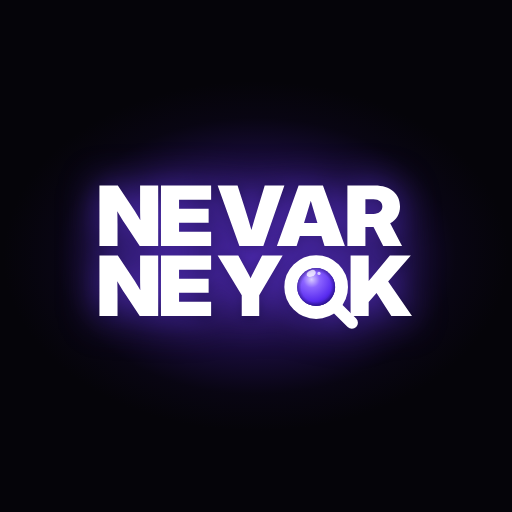
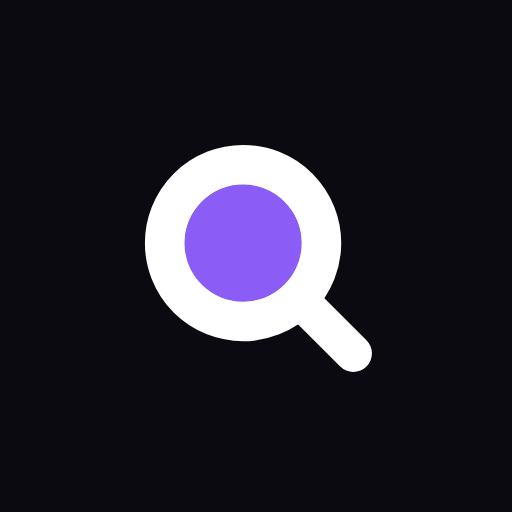
Logonun son hali: düz mor cam, düz koyu zemin, uygulama simgesi yalnızca büyüteç; ışıma ve haleler kaldırıldı
Claude-Session: https://claude.ai/code/session_01DgUC4EpyTiTxeH42sTdKUw

Changed region(s): [[0.125, 0.2812, 0.8438, 0.75]]

diff --git a/index.html b/index.html
@@ -8,7 +8,7 @@
 <meta property="og:image" content="https://nevarneyok.net.tr/icons/og.png">
 <meta property="og:url" content="https://nevarneyok.net.tr/">
 <meta name="description" content="Konser, tiyatro, sinema, stand-up ve çocuk etkinlikleri; bilet siteleri yan yana. Şehrini seç, ne var ne yok gör.">
-<meta name="theme-color" content="#050409">
+<meta name="theme-color" content="#0a0a10">
 <link rel="manifest" href="manifest.webmanifest">
 <link rel="icon" type="image/png" sizes="192x192" href="icons/icon-192.png">
 <link rel="apple-touch-icon" href="icons/apple-touch-icon.png">
@@ -18,8 +18,8 @@
 <link rel="stylesheet" href="https://fonts.googleapis.com/css2?family=Poppins:wght@300;800&text=onesidby&display=swap">
 <style>
 /* ============ NE VAR NE YOK · YENİ TASARIM ============
-   Siyah zemin + mor ışıma (yeni logo, 15.11.2026); renk afişlerden gelir. Düğmeler beyaz, vurgu mor (--pur). */
-:root{--bg:#050409;--s1:#100c1c;--s2:#18132b;--s3:#231c3d;--line:rgba(255,255,255,.09);--tx:#f6f4fb;--t2:#b0a9c8;--t3:#7a7294;--acc:#ffffff;--on-acc:#050409;--pur:#8b63ff;--pur2:#5a2df0;
+   Düz koyu zemin #0a0a10, vurgu düz mor #8b5cf6 (logonun son hali, 15.11.2026); renk afişlerden gelir. Düğmeler beyaz, vurgu mor (--pur). */
+:root{--bg:#0a0a10;--s1:#13131c;--s2:#1b1b27;--s3:#252534;--line:rgba(255,255,255,.09);--tx:#f6f4fb;--t2:#b0a9c8;--t3:#7a7294;--acc:#ffffff;--on-acc:#0a0a10;--pur:#8b5cf6;--pur2:#7c3aed;
   --f:"Inter Tight",system-ui,-apple-system,"Segoe UI",sans-serif;--fd:"Archivo","Inter Tight",system-ui,sans-serif;--fl:"Bricolage Grotesque","Inter Tight",system-ui,sans-serif;--pad:20px;--r:14px}
 @media (min-width:900px){:root{--pad:48px}}
 *{box-sizing:border-box;margin:0;padding:0}
@@ -31,13 +31,11 @@ img{display:block;max-width:100%}
 .ic{width:20px;height:20px;flex:none}
 
 
-/* Logodaki gibi mor ışıma: sabit, ayrı katmanda (kaydırmada yeniden çizilmez) */
-body::before{content:"";position:fixed;inset:0;z-index:-1;pointer-events:none;background:radial-gradient(75% 42% at 30% 4%,rgba(70,34,160,.62),rgba(38,18,92,.3) 50%,transparent 78%),radial-gradient(60% 38% at 90% 100%,rgba(48,24,120,.28),transparent 72%);transform:translateZ(0)}
 /* ---- Logo (brand/logo.js): beyaz yazı, beyaz büyüteç, mor cam ---- */
-.wm{display:inline-flex;font-size:20px;--u:.0073em;color:#fff;filter:drop-shadow(0 0 .35em rgba(105,60,240,.65))}
+.wm{display:inline-flex;font-size:20px;--u:.0073em;color:#fff}
 
 /* ---- Üst çubuk ---- */
-.top{position:sticky;top:0;z-index:50;height:62px;display:flex;align-items:center;gap:12px;padding:0 var(--pad);background:rgba(5,4,9,.82);-webkit-backdrop-filter:saturate(1.4) blur(14px);backdrop-filter:saturate(1.4) blur(14px);border-bottom:1px solid transparent;transition:border-color .2s}
+.top{position:sticky;top:0;z-index:50;height:62px;display:flex;align-items:center;gap:12px;padding:0 var(--pad);background:rgba(10,10,16,.82);-webkit-backdrop-filter:saturate(1.4) blur(14px);backdrop-filter:saturate(1.4) blur(14px);border-bottom:1px solid transparent;transition:border-color .2s}
 .top.sc{border-bottom-color:var(--line)}
 .top[hidden]{display:none}
 .top .sp{flex:1}
@@ -97,12 +95,12 @@ html.app .dl-top,html.app [data-app]{display:none!important}
 .dstrip small{font:700 11px var(--f);letter-spacing:.04em}
 .dstrip b{font:800 19px/1.1 var(--f);color:var(--tx)}
 .dstrip .wk b{font-size:13px;line-height:1.5}
-.dstrip button.on{background:#fff;border-color:#fff;color:#050409}.dstrip button.on b{color:#050409}
+.dstrip button.on{background:#fff;border-color:#fff;color:#0a0a10}.dstrip button.on b{color:#0a0a10}
 .pills{display:flex;gap:8px;overflow-x:auto;scrollbar-width:none;padding:10px var(--pad) 0;max-width:1440px;margin:0 auto}
 .pills::-webkit-scrollbar{display:none}
 .pl{flex:none;display:flex;align-items:center;gap:6px;height:38px;padding:0 12px 0 15px;border-radius:999px;border:1px solid rgba(255,255,255,.16);font-weight:700;font-size:14px;max-width:220px;white-space:nowrap;overflow:hidden;text-overflow:ellipsis}
 .pl svg{width:14px;height:14px;flex:none;opacity:.6}
-.pl.on{background:#fff;color:#050409;border-color:#fff}
+.pl.on{background:#fff;color:#0a0a10;border-color:#fff}
 .pl.clr{padding:0 15px;color:var(--t2);border-style:dashed}
 .mn .pn{max-height:72svh}
 .ml{padding:6px 12px 14px}
@@ -136,7 +134,7 @@ html.app .dl-top,html.app [data-app]{display:none!important}
 .sps{position:relative;flex:0 0 100%;scroll-snap-align:center;scroll-snap-stop:always;padding:0 var(--pad);display:block}
 .sps::before{content:"";position:absolute;inset:0 var(--pad);border-radius:24px;background:var(--s1);z-index:-3}
 .sps .bg{position:absolute;inset:0 var(--pad);width:calc(100% - 2 * var(--pad));height:100%;object-fit:cover;border-radius:24px;filter:blur(30px) saturate(1.25) brightness(.5);transform:scale(1.02);z-index:-2;opacity:.9}
-.sps::after{content:"";position:absolute;inset:0 var(--pad);border-radius:24px;z-index:-1;background:linear-gradient(180deg,rgba(5,4,9,.15),rgba(5,4,9,0) 30%,rgba(5,4,9,.88));box-shadow:inset 0 0 0 1px rgba(255,255,255,.06)}
+.sps::after{content:"";position:absolute;inset:0 var(--pad);border-radius:24px;z-index:-1;background:linear-gradient(180deg,rgba(10,10,16,.15),rgba(10,10,16,0) 30%,rgba(10,10,16,.88));box-shadow:inset 0 0 0 1px rgba(255,255,255,.06)}
 .sps{min-height:560px}
 .sps .po{width:min(60vw,290px);margin:46px auto 0;aspect-ratio:830/1200;border-radius:14px;overflow:hidden;box-shadow:0 30px 60px rgba(0,0,0,.55)}
 .sps .po .ph{border-radius:14px}
@@ -144,7 +142,7 @@ html.app .dl-top,html.app [data-app]{display:none!important}
 .sps .tg{display:inline-block;padding:5px 10px;border-radius:999px;background:rgba(255,255,255,.12);font:700 11px var(--f);letter-spacing:.16em;text-transform:uppercase}
 .sps h2{margin-top:12px;font:900 clamp(30px,7.6vw,64px)/.92 var(--fd);font-stretch:78%;letter-spacing:-.02em;text-transform:uppercase;display:-webkit-box;-webkit-line-clamp:3;-webkit-box-orient:vertical;overflow:hidden}
 .sps .m{margin-top:10px;color:rgba(255,255,255,.78);font-weight:600}
-.sps .go{display:inline-flex;align-items:center;gap:8px;margin-top:16px;padding:12px 20px;border-radius:999px;background:#fff;color:#050409;font:800 14px var(--f)}
+.sps .go{display:inline-flex;align-items:center;gap:8px;margin-top:16px;padding:12px 20px;border-radius:999px;background:#fff;color:#0a0a10;font:800 14px var(--f)}
 .stp .nv{position:absolute;top:40px;bottom:120px;width:22%;z-index:2;background:none;border:0;cursor:pointer}
 .stp .pv{left:0}.stp .nx{right:0}
 @media (min-width:900px){.sps{min-height:480px}.sps .po{width:270px;margin:46px 0 32px 64px;float:left}.sps .tx{padding:0 64px 0 380px;text-align:left;position:absolute;left:0;right:0;top:50%;transform:translateY(-35%)}.stp .nv{width:12%}}
@@ -187,8 +185,8 @@ html.app .dl-top,html.app [data-app]{display:none!important}
 .ph.no .tp{display:flex}
 .ph .tp b{font:900 24px/.95 var(--fd);font-stretch:80%;text-transform:uppercase;letter-spacing:-.02em;display:-webkit-box;-webkit-line-clamp:5;-webkit-box-orient:vertical;overflow:hidden}
 .ph .tp small{font:700 11px var(--f);letter-spacing:.16em;text-transform:uppercase;color:var(--t3)}
-.ph .bd{position:absolute;left:8px;top:8px;z-index:2;padding:4px 8px;border-radius:7px;background:rgba(5,4,9,.78);font:700 11px var(--f);letter-spacing:.04em}
-.ph .bd.x{background:#fff;color:#050409}
+.ph .bd{position:absolute;left:8px;top:8px;z-index:2;padding:4px 8px;border-radius:7px;background:rgba(10,10,16,.78);font:700 11px var(--f);letter-spacing:.04em}
+.ph .bd.x{background:#fff;color:#0a0a10}
 .cd .t{margin-top:10px;font:800 15px/1.2 var(--f);letter-spacing:-.01em;display:-webkit-box;-webkit-line-clamp:2;-webkit-box-orient:vertical;overflow:hidden}
 .cd .m{margin-top:4px;color:var(--t2);font-size:13px;font-weight:500;white-space:nowrap;overflow:hidden;text-overflow:ellipsis}
 .cd .m2{color:var(--t3);font-size:13px;white-space:nowrap;overflow:hidden;text-overflow:ellipsis}
@@ -234,7 +232,7 @@ html.app .dl-top,html.app [data-app]{display:none!important}
 .pn .ft .ok{flex:1;background:var(--acc);color:var(--on-acc)}
 
 /* ---- Keşfet üst bölüm + düzenli filtre ekranı ---- */
-.fbtn.on{background:#fff;color:#050409;border-color:#fff}.fbtn.on .n{background:#050409;color:#fff}
+.fbtn.on{background:#fff;color:#0a0a10;border-color:#fff}.fbtn.on .n{background:#0a0a10;color:#fff}
 .frow{display:flex;align-items:center;gap:10px;padding:10px var(--pad) 0;max-width:1440px;margin:0 auto}
 .frow .act{flex:1;flex-wrap:nowrap;overflow-x:auto;scrollbar-width:none;padding:0;margin:0}
 .frow .act::-webkit-scrollbar{display:none}.frow .act button{flex:none}
@@ -268,7 +266,7 @@ html.app .dl-top,html.app [data-app]{display:none!important}
 .dt{position:relative}
 .dt .bk{position:absolute;inset:0 0 auto;height:min(78vh,760px);overflow:hidden;z-index:-1}
 .dt .bk img{width:100%;height:100%;object-fit:cover;filter:blur(40px) saturate(1.2) brightness(.42);transform:scale(1.2)}
-.dt .bk::after{content:"";position:absolute;inset:0;background:linear-gradient(180deg,rgba(5,4,9,.2),var(--bg) 96%)}
+.dt .bk::after{content:"";position:absolute;inset:0;background:linear-gradient(180deg,rgba(10,10,16,.2),var(--bg) 96%)}
 .dt .in{max-width:1180px;margin:0 auto;padding:18px var(--pad) 0}
 .back{display:inline-flex;align-items:center;gap:6px;height:38px;padding:0 14px 0 10px;border-radius:999px;background:rgba(255,255,255,.1);font-weight:700}
 .dg{display:grid;gap:28px;margin-top:20px}
@@ -301,14 +299,14 @@ html.app .dl-top,html.app [data-app]{display:none!important}
 .mapc{border-radius:18px;overflow:hidden;background:var(--s1);border:1px solid var(--line)}
 .map{height:240px;background:#0d0f13}
 .map .dk{filter:invert(1) hue-rotate(180deg) brightness(.82) contrast(.92) saturate(.35)}
-.map .leaflet-control-attribution{background:rgba(5,4,9,.7)!important;color:#888!important;font-size:9px}
+.map .leaflet-control-attribution{background:rgba(10,10,16,.7)!important;color:#888!important;font-size:9px}
 .map .leaflet-control-attribution a{color:#aaa!important}
 .mapc .ad{display:flex;align-items:center;gap:12px;padding:14px 16px}
 .mapc .ad svg{width:22px;height:22px;color:#fff;flex:none}
 .mapc .ad b{display:block}.mapc .ad small{color:var(--t2)}
 .mapc .bt{display:flex;gap:8px;padding:0 16px 16px}
 .mapc .bt a{flex:1;display:flex;align-items:center;justify-content:center;gap:8px;height:44px;border-radius:12px;background:var(--s2);font-weight:700;font-size:14px}
-.mapc .bt a.p{background:#fff;color:#050409}
+.mapc .bt a.p{background:#fff;color:#0a0a10}
 .pin{width:30px;height:30px;border-radius:50% 50% 50% 0;background:#fff;transform:rotate(-45deg);box-shadow:0 6px 16px rgba(0,0,0,.6),0 0 0 5px rgba(255,255,255,.18)}
 .shr{display:flex;gap:8px;margin-top:12px}
 .shr button{display:flex;align-items:center;gap:8px;height:40px;padding:0 14px;border-radius:999px;background:var(--s2);font-weight:700;font-size:14px}
@@ -350,19 +348,19 @@ html.app .dl-top,html.app [data-app]{display:none!important}
 .fbell{position:relative}.fbell b{position:absolute;top:-3px;right:-3px;display:none;min-width:18px;height:18px;padding:0 5px;border-radius:9px;background:var(--pur);color:#fff;font:800 11px/18px var(--f);text-align:center}.fbell.has b{display:block}
 .shr .flw{background:var(--s2)}.shr .flw.on{background:var(--pur);color:#fff}.shr .flw svg{width:18px;height:18px}
 .flh{margin-top:8px;color:var(--t3);font-size:13px;max-width:520px}
-.nbox{display:flex;align-items:center;gap:12px;padding:14px 16px;border-radius:16px;background:linear-gradient(120deg,rgba(139,99,255,.22),rgba(90,45,240,.08));border:1px solid rgba(139,99,255,.35);max-width:620px}
-.nbox>svg{width:24px;height:24px;flex:none;color:#c4b0ff}.nbox span{flex:1;min-width:0}.nbox b{display:block;font-weight:800}.nbox small{display:block;margin-top:2px;color:var(--t2);font-size:13px;line-height:1.35}
+.nbox{display:flex;align-items:center;gap:12px;padding:14px 16px;border-radius:16px;background:linear-gradient(120deg,rgba(139,92,246,.22),rgba(90,45,240,.08));border:1px solid rgba(139,92,246,.35);max-width:620px}
+.nbox>svg{width:24px;height:24px;flex:none;color:#b9a3fb}.nbox span{flex:1;min-width:0}.nbox b{display:block;font-weight:800}.nbox small{display:block;margin-top:2px;color:var(--t2);font-size:13px;line-height:1.35}
 .nbox .nb-go{flex:none;height:38px;padding:0 16px;border-radius:999px;background:#fff;color:var(--on-acc);font-weight:800;font-size:14px}
 .nbox .nb-x{flex:none;width:30px;height:30px;border-radius:50%;color:var(--t3)}
 .nbox.ok{background:var(--s1);border-color:var(--line)}
 .nask{margin-top:18px}
-.nsh{text-align:center;padding-top:8px}.nsh>svg{width:42px;height:42px;color:#c4b0ff}.nsh h3{margin-top:10px;font:900 26px/1 var(--fd);font-stretch:80%;text-transform:uppercase}.nsh p{margin-top:10px;color:var(--t2)}
+.nsh{text-align:center;padding-top:8px}.nsh>svg{width:42px;height:42px;color:#b9a3fb}.nsh h3{margin-top:10px;font:900 26px/1 var(--fd);font-stretch:80%;text-transform:uppercase}.nsh p{margin-top:10px;color:var(--t2)}
 .tst{position:fixed;left:50%;top:calc(70px + env(safe-area-inset-top));z-index:90;display:flex;flex-direction:column;gap:8px;width:min(440px,calc(100% - 24px));transform:translateX(-50%);pointer-events:none}
-.tt{display:flex;gap:10px;align-items:flex-start;padding:12px 14px;border-radius:14px;background:#1c1633;border:1px solid rgba(139,99,255,.4);box-shadow:0 12px 30px rgba(0,0,0,.45);font-size:14px;pointer-events:auto;opacity:0;transform:translateY(-10px);transition:opacity .25s,transform .25s}
-.tt.on{opacity:1;transform:none}.tt>svg{width:20px;height:20px;flex:none;color:#c4b0ff;margin-top:1px}.tt b{display:block}.tt small{display:block;color:var(--t2);margin-top:2px}.tt a{color:#c4b0ff;font-weight:800;text-decoration:underline;text-underline-offset:3px}.tt span a{display:inline-block;margin-top:6px}
+.tt{display:flex;gap:10px;align-items:flex-start;padding:12px 14px;border-radius:14px;background:#1c1633;border:1px solid rgba(139,92,246,.4);box-shadow:0 12px 30px rgba(0,0,0,.45);font-size:14px;pointer-events:auto;opacity:0;transform:translateY(-10px);transition:opacity .25s,transform .25s}
+.tt.on{opacity:1;transform:none}.tt>svg{width:20px;height:20px;flex:none;color:#b9a3fb;margin-top:1px}.tt b{display:block}.tt small{display:block;color:var(--t2);margin-top:2px}.tt a{color:#b9a3fb;font-weight:800;text-decoration:underline;text-underline-offset:3px}.tt span a{display:inline-block;margin-top:6px}
 .ph.gone{display:grid;place-items:center;aspect-ratio:830/1200;border-radius:12px;background:var(--s1);color:var(--t3);font-weight:700}
 .unf{margin-top:8px;font-size:13px;color:var(--t2);text-decoration:underline}
-.info{max-width:760px;padding-top:18px;color:var(--t2);font-size:16px;line-height:1.6}.info p{margin-top:14px}.info b{color:var(--tx)}.info a{color:#c4b0ff;text-decoration:underline}
+.info{max-width:760px;padding-top:18px;color:var(--t2);font-size:16px;line-height:1.6}.info p{margin-top:14px}.info b{color:var(--tx)}.info a{color:#b9a3fb;text-decoration:underline}
 .cs-h{display:flex;align-items:center;justify-content:space-between}
 /* ---- Afişi olmayan etkinlik: tasarlanmış afiş (kategori renginde, büyük ad, tarih, mekân, küçük imza) ---- */
 .ph .tp{background:radial-gradient(120% 70% at 20% 0%,var(--tc,#3a1f8f),transparent 70%),linear-gradient(170deg,#15102a,#07060d);padding:16px 14px 14px}
@@ -391,7 +389,7 @@ html.app .dl-top,html.app [data-app]{display:none!important}
 try{if(matchMedia("(display-mode: standalone)").matches||navigator.standalone===true)document.documentElement.classList.add("app")}catch(e){}
 window.NVNY_SITE={contact:"contact.openmind.vision@gmail.com",instagram:"https://www.instagram.com/nevarneyok.etkinlik/"};
 </script>
-<script src="brand/logo.js?v=2"></script>
+<script src="brand/logo.js?v=3"></script>
 <script src="takip.js?v=2"></script>
 <script>document.head.insertAdjacentHTML("beforeend","<style>"+NVLOGO.css+"</style>")</script>
 <script src="app.js?v=8e6041a4c8"></script>

diff --git a/brand/logo.js b/brand/logo.js
@@ -2,7 +2,7 @@
    NVLOGO(id) → .logo içine konacak <span class="wm">…</span>. Boyut: .logo{--u} (1 birim = büyük harf yüksekliğinin %1'i).
    Parçalar: 1. satır "NE VAR"; 2. satır "NE Y" + O (halka .sr-ring, cam .sr-glass) + "K". Renk currentColor (beyaz). */
 (function (g) {
-  var P = {"l1": "M-8.9e-16 100H29.9V63.5C29.9 59.5 29.9 51.6 29.5 42.6C34.5 51.3 39.3 59 42.3 63.5L66.6 100H97.1V0H67.2V36.6C67.2 41.4 67.3 49.5 67.6 57.7C63.4 50.5 59 43 56.5 39.3L30.4 0H-8.9e-16ZM101.7 100H184.6V76.4H131.6V61.5H180.5V38.7H131.6V23.6H184.6V0H101.7ZM231.3 100H270.9L305.7 0H273.2L261.4 38.8C257.8 50.5 254.5 62.1 251.2 73.8C247.9 62.1 244.4 50.5 240.7 38.8L228.3 0H195.4ZM293.3 100H325.9L331.2 83.6H366.9L372 100H405.7L369.4 0H329.2ZM338.1 62.1 338.4 61.2C342.2 49.1 345.8 37.4 349.3 25.3C352.8 37.4 356.3 49.1 360 61.2L360.3 62.1ZM409.8 100H439.6V68.7H453L469 100H500.1L480.5 62.7C490.9 56.9 496.8 47.3 496.8 34.9C496.8 13.5 480.8 0 455.2 0H409.8ZM439.6 47.1V22.7H453C462 22.7 467.6 27.6 467.6 34.9C467.6 42.2 462 47.1 453 47.1Z", "w1": 500.09, "ny": "M-8.9e-16 100H29.9V63.5C29.9 59.5 29.9 51.6 29.5 42.6C34.5 51.3 39.3 59 42.3 63.5L66.6 100H97.1V0H67.2V36.6C67.2 41.4 67.3 49.5 67.6 57.7C63.4 50.5 59 43 56.5 39.3L30.4 0H-8.9e-16ZM101.7 100H184.6V76.4H131.6V61.5H180.5V38.7H131.6V23.6H184.6V0H101.7ZM235.2 100H264.1V65.9L302.8 0H268.8L254.4 28.1C252.8 31.2 251.2 34.4 249.8 37.6C248.2 34.4 246.6 31.2 244.9 28.1L229.5 0H195.4L235.2 65.9Z", "wny": 302.79, "k": "M-8.9e-16 100H29.9V76.8L42.9 61.9L67.3 100H101.5L62.1 43L99.5 0H64.9L43.7 25.7C39.1 31.3 34.5 36.8 29.9 42.3V0H-8.9e-16Z", "wk": 101.47, "O": 104.6, "gyo": 3.0999999999999996, "gok": 4.6, "lg": 15.7, "ring": "<circle cx=\"52.3\" cy=\"52.3\" r=\"41.84\" fill=\"none\" stroke=\"currentColor\" stroke-width=\"21.52\"/><path d=\"M84.7 84.7L111.4 111.4\" stroke=\"currentColor\" stroke-width=\"19.9\" stroke-linecap=\"round\"/>", "glass": "<defs><radialGradient id=\"__ID__\" cx=\"38%\" cy=\"30%\" r=\"78%\"><stop offset=\"0\" stop-color=\"#d9ccff\"/><stop offset=\".28\" stop-color=\"#8b63ff\"/><stop offset=\".72\" stop-color=\"#5a2df0\"/><stop offset=\"1\" stop-color=\"#2c0fa6\"/></radialGradient><radialGradient id=\"__ID__s\"><stop offset=\".78\" stop-color=\"#1a0b55\" stop-opacity=\"0\"/><stop offset=\"1\" stop-color=\"#1a0b55\" stop-opacity=\".45\"/></radialGradient></defs><circle cx=\"52.3\" cy=\"52.3\" r=\"31.38\" fill=\"url(#__ID__)\"/><circle cx=\"52.3\" cy=\"52.3\" r=\"31.38\" fill=\"url(#__ID__s)\"/><ellipse cx=\"44.1\" cy=\"29.7\" rx=\"7.8\" ry=\"5.0\" transform=\"rotate(-24 44.1 29.7)\" fill=\"#fff\" fill-opacity=\".72\"/><circle cx=\"57.0\" cy=\"29.7\" r=\"2.7\" fill=\"#fff\" fill-opacity=\".7\"/>"};
+  var P = {"l1": "M-8.9e-16 100H29.9V63.5C29.9 59.5 29.9 51.6 29.5 42.6C34.5 51.3 39.3 59 42.3 63.5L66.6 100H97.1V0H67.2V36.6C67.2 41.4 67.3 49.5 67.6 57.7C63.4 50.5 59 43 56.5 39.3L30.4 0H-8.9e-16ZM101.7 100H184.6V76.4H131.6V61.5H180.5V38.7H131.6V23.6H184.6V0H101.7ZM231.3 100H270.9L305.7 0H273.2L261.4 38.8C257.8 50.5 254.5 62.1 251.2 73.8C247.9 62.1 244.4 50.5 240.7 38.8L228.3 0H195.4ZM293.3 100H325.9L331.2 83.6H366.9L372 100H405.7L369.4 0H329.2ZM338.1 62.1 338.4 61.2C342.2 49.1 345.8 37.4 349.3 25.3C352.8 37.4 356.3 49.1 360 61.2L360.3 62.1ZM409.8 100H439.6V68.7H453L469 100H500.1L480.5 62.7C490.9 56.9 496.8 47.3 496.8 34.9C496.8 13.5 480.8 0 455.2 0H409.8ZM439.6 47.1V22.7H453C462 22.7 467.6 27.6 467.6 34.9C467.6 42.2 462 47.1 453 47.1Z", "w1": 500.09, "ny": "M-8.9e-16 100H29.9V63.5C29.9 59.5 29.9 51.6 29.5 42.6C34.5 51.3 39.3 59 42.3 63.5L66.6 100H97.1V0H67.2V36.6C67.2 41.4 67.3 49.5 67.6 57.7C63.4 50.5 59 43 56.5 39.3L30.4 0H-8.9e-16ZM101.7 100H184.6V76.4H131.6V61.5H180.5V38.7H131.6V23.6H184.6V0H101.7ZM235.2 100H264.1V65.9L302.8 0H268.8L254.4 28.1C252.8 31.2 251.2 34.4 249.8 37.6C248.2 34.4 246.6 31.2 244.9 28.1L229.5 0H195.4L235.2 65.9Z", "wny": 302.79, "k": "M-8.9e-16 100H29.9V76.8L42.9 61.9L67.3 100H101.5L62.1 43L99.5 0H64.9L43.7 25.7C39.1 31.3 34.5 36.8 29.9 42.3V0H-8.9e-16Z", "wk": 101.47, "O": 104.6, "gyo": 3.0999999999999996, "gok": 4.6, "lg": 15.7, "ring": "<circle cx=\"52.3\" cy=\"52.3\" r=\"41.84\" fill=\"none\" stroke=\"currentColor\" stroke-width=\"21.52\"/><path d=\"M84.7 84.7L111.4 111.4\" stroke=\"currentColor\" stroke-width=\"19.9\" stroke-linecap=\"round\"/>", "glass": "<circle cx=\"52.3\" cy=\"52.3\" r=\"31.38\" fill=\"#8b5cf6\"/>"};
   var sv = function (w, d) { return '<svg class="lw" viewBox="0 0 ' + w + ' 100" style="width:calc(var(--u) * ' + w + ')" aria-hidden="true"><path fill="currentColor" d="' + d + '"/></svg>'; };
   function NVLOGO(id) {
     id = id || "nv" + Math.random().toString(36).slice(2, 7);

diff --git a/indir/index.html b/indir/index.html
@@ -8,7 +8,7 @@
 <meta property="og:title" content="Ne Var Ne Yok uygulamasını indir">
 <meta property="og:description" content="Ankara'nın etkinliklerine göz at. Android ve iPhone, ücretsiz.">
 <meta property="og:image" content="https://nevarneyok.net.tr/icons/icon-512.png">
-<meta name="theme-color" content="#050409">
+<meta name="theme-color" content="#0a0a10">
 <link rel="manifest" href="../manifest.webmanifest">
 <link rel="icon" type="image/png" sizes="192x192" href="../icons/icon-192.png">
 <link rel="apple-touch-icon" href="../icons/apple-touch-icon.png">
@@ -19,15 +19,15 @@
 <style>
 :root{--nar:#ff3b6b;--g1:#FF6B8F;--g2:#7C5CFF;--g3:#1D1F4A;--f-disp:"Bricolage Grotesque",system-ui,sans-serif;--f-body:"Onest",system-ui,sans-serif;--f-mono:"JetBrains Mono",ui-monospace,monospace}
 *{box-sizing:border-box}
-html,body{margin:0;min-height:100%;background:radial-gradient(52% 36% at 50% 50%,rgba(70,34,160,.95),rgba(38,18,92,.6) 50%,rgba(16,8,40,.3) 75%,transparent 95%),#050409;color:#fff;font-family:var(--f-body)}
+html,body{margin:0;min-height:100%;background:#0a0a10;color:#fff;font-family:var(--f-body)}
 main{min-height:100svh;display:flex;flex-direction:column;align-items:center;justify-content:center;gap:22px;padding:calc(28px + env(safe-area-inset-top)) 20px calc(28px + env(safe-area-inset-bottom));text-align:center}
-.tile{position:relative;display:grid;place-items:center;width:150px;height:150px;border-radius:34px;overflow:hidden;background:#050409;box-shadow:0 20px 50px rgba(0,0,0,.5),inset 0 0 0 1.5px rgba(255,255,255,.14)}
+.tile{position:relative;display:grid;place-items:center;width:150px;height:150px;border-radius:34px;overflow:hidden;background:#0a0a10;box-shadow:0 20px 50px rgba(0,0,0,.5),inset 0 0 0 1.5px rgba(255,255,255,.14)}
 .wm{display:flex;flex-direction:column;font:800 30px/.9 var(--f-disp);font-variation-settings:"wdth" 85;letter-spacing:-.02em;text-align:left}
 .O{display:inline-block;width:.86em;height:.86em;vertical-align:-.08em;margin:0 .01em}
 .O svg{width:100%;height:100%;overflow:visible}
 h1{margin:6px 0 0;font:800 32px/1.05 var(--f-disp);letter-spacing:-.02em}
 p.s{margin:0;font:600 11px var(--f-mono);letter-spacing:.18em;text-transform:uppercase;opacity:.7}
-.btn{position:relative;display:inline-flex;align-items:center;justify-content:center;gap:10px;width:min(340px,100%);padding:18px 24px;border:0;border-radius:18px;background:linear-gradient(115deg,#8b63ff,#5a2df0);color:#fff;font:800 19px var(--f-disp);cursor:pointer;overflow:hidden;box-shadow:0 14px 34px rgba(90,45,240,.45);-webkit-tap-highlight-color:transparent}
+.btn{position:relative;display:inline-flex;align-items:center;justify-content:center;gap:10px;width:min(340px,100%);padding:18px 24px;border:0;border-radius:18px;background:#8b5cf6;color:#fff;font:800 19px var(--f-disp);cursor:pointer;overflow:hidden;box-shadow:0 14px 34px rgba(139,92,246,.35);-webkit-tap-highlight-color:transparent}
 .btn::after{content:"";position:absolute;top:0;bottom:0;left:0;width:55%;background:linear-gradient(100deg,transparent,rgba(255,255,255,.45) 50%,transparent);transform:translateX(-130%) skewX(-18deg);animation:sw 3.4s cubic-bezier(.45,.05,.25,1) .5s infinite}
 .btn:active{transform:scale(.97)}
 .btn svg{width:22px;height:22px}

diff --git a/brand/make-logo.py b/brand/make-logo.py
@@ -1,4 +1,5 @@
-# Yeni NE VAR NE YOK logosunu (kullanıcının tasarımı, 15.11.2026) vektöre çevirir.
+# NE VAR NE YOK logosunu (kullanıcının tasarımı, son hali 15.11.2026: düz mor cam, düz koyu zemin) vektöre çevirir.
+# Ayrıca brand/mark.svg: yalnızca büyüteç (uygulama simgesi).
 # Yazı: Inter Display Black, %107 genişlik, sıkı aralık; YOK'taki O: beyaz halka + beyaz sap + mor cam küre.
 # Çıktılar: brand/logo.svg (tek parça), brand/logo.js (sitelerde parça parça kullanılan HTML: NVLOGO(id)).
 # Çalıştırma: python3 brand/make-logo.py  (fontTools ve sistemdeki InterDisplay-Black.otf gerekir)
@@ -28,12 +29,8 @@ def rnd(d):  # yolları kısalt
 L1, w1 = word("NE VAR"); NY, wny = word("NE Y"); K, wk = word("K"); L1, NY, K = rnd(L1), rnd(NY), rnd(K)
 O = 104.6; c = O / 2; R = c; ball = R * 0.6; GYO, GOK, LG = GAP - 1.5, GAP, 15.7
 ring = f'<circle cx="{c}" cy="{c}" r="{(R+ball)/2:.2f}" fill="none" stroke="currentColor" stroke-width="{R-ball+.6:.2f}"/><path d="M{c+R*.62:.1f} {c+R*.62:.1f}L{c+R*1.13:.1f} {c+R*1.13:.1f}" stroke="currentColor" stroke-width="{R*.38:.1f}" stroke-linecap="round"/>'
-def glass(i):
-    return (f'<defs><radialGradient id="{i}" cx="38%" cy="30%" r="78%"><stop offset="0" stop-color="#d9ccff"/><stop offset=".28" stop-color="#8b63ff"/><stop offset=".72" stop-color="#5a2df0"/><stop offset="1" stop-color="#2c0fa6"/></radialGradient>'
-            f'<radialGradient id="{i}s"><stop offset=".78" stop-color="#1a0b55" stop-opacity="0"/><stop offset="1" stop-color="#1a0b55" stop-opacity=".45"/></radialGradient></defs>'
-            f'<circle cx="{c}" cy="{c}" r="{ball:.2f}" fill="url(#{i})"/><circle cx="{c}" cy="{c}" r="{ball:.2f}" fill="url(#{i}s)"/>'
-            f'<ellipse cx="{c-ball*.26:.1f}" cy="{c-ball*.72:.1f}" rx="{ball*.25:.1f}" ry="{ball*.16:.1f}" transform="rotate(-24 {c-ball*.26:.1f} {c-ball*.72:.1f})" fill="#fff" fill-opacity=".72"/>'
-            f'<circle cx="{c+ball*.15:.1f}" cy="{c-ball*.72:.1f}" r="{ball*.085:.1f}" fill="#fff" fill-opacity=".7"/>')
+def glass(i):  # düz mor cam (yeni logo, 15.11.2026: parıltı ve gölge yok)
+    return f'<circle cx="{c}" cy="{c}" r="{ball:.2f}" fill="#8b5cf6"/>'
 # Tek parça SVG (beyaz)
 W = max(w1, wny + GYO + O + GOK + wk); Ht = 100 + LG + O + 14
 ox = wny + GYO; oy = 100 + LG
@@ -41,6 +38,8 @@ svg = (f'<svg xmlns="http://www.w3.org/2000/svg" viewBox="-4 -4 {W+8:.1f} {Ht+8:
        f'<path fill="currentColor" d="{L1}"/><g transform="translate(0 {oy})"><path fill="currentColor" d="{NY}"/>'
        f'<g transform="translate({ox:.2f} 0)">{ring}{glass("nvg")}</g><path fill="currentColor" transform="translate({ox+O+GOK:.2f} 0)" d="{K}"/></g></svg>')
 open(os.path.join(H, "logo.svg"), "w").write(svg)
+mark = f'<svg xmlns="http://www.w3.org/2000/svg" viewBox="-4 -4 {O*1.13+8:.1f} {O*1.13+8:.1f}" role="img" aria-label="Ne Var Ne Yok" color="#fff">{ring}{glass("m")}</svg>'
+open(os.path.join(H, "mark.svg"), "w").write(mark)
 P = dict(l1=L1, w1=w1, ny=NY, wny=wny, k=K, wk=wk, O=O, gyo=GYO, gok=GOK, lg=LG, ring=ring, glass=glass("__ID__"))
 js = """/* NE VAR NE YOK logosu (brand/make-logo.py üretir; elle değiştirme).
    NVLOGO(id) → .logo içine konacak <span class="wm">…</span>. Boyut: .logo{--u} (1 birim = büyük harf yüksekliğinin %1'i).

diff --git a/CLAUDE.md b/CLAUDE.md
@@ -16,7 +16,7 @@ Kullanıcıyla her zaman Türkçe konuş.
 - Aşağıda eski siteye ait kurallar (dört tema, gökyüzü/silüet/bayrak, dikey cam bilet kartları, afiş duvarı, kategori sahneleri, özel günler, giriş ekranı, `.dlbtn` hero düğmesi, `wxRefresh`/`paintBg` gibi akıcılık maddeleri) **artık geçmiş kayıttır**; geri getirme. Geçerli tasarım: bölüm 3b ve logo/tema maddeleri.
 - **Instagram görselleri:** `social.mjs` eski sitenin çizimlerini kullanıyordu; şimdilik iş akışlarında kapalı (`# node social.mjs`). Yeni tasarımla yeniden kurulacak (otomatik gönderiler Aralık'ta başlıyor). `promo.mjs` (reklam görselleri) kendi şablonuyla çalışmaya devam eder.
 - Bilgi sayfaları: `#/bilgi/hakkinda|kaynaklar|gizlilik|kosullar|iletisim`. Eski bağlantılar (`#e/<slug>`, `#gizlilik` …) yeni adreslere yönlenir (Google sayfaları `../../#e/<slug>` kullanır).
-- Tema: **siyah zemin (#050409) + mor ışıma** (yeni logonun zemini, `brand/nevarneyok-logo.png`); logoda mor hale (`drop-shadow`). Simgeler `brand/make-icons.cjs` ile üretilir.
+- **Logo ve tema (son hali, kullanıcı 15.11.2026 11:49):** logo `brand/nevarneyok-logo.png`, uygulama simgesi **yalnızca büyüteç** `brand/nevarneyok-simge.png`. Düz tasarım: zemin düz koyu **#0a0a10**, büyüteçte **düz mor cam #8b5cf6** (parıltı, gölge, gradyan yok), harflerde hale/ışıma yok, sayfada mor ışıma yok. Vurgu rengi #8b5cf6. `brand/make-logo.py` → `logo.svg`, `mark.svg`, `logo.js`; `brand/make-icons.cjs` → `icons/` (simgeler büyüteç, `og.png` tam logo).
 
 ## 2. Sistem nasıl çalışır (korunacak)
 | Parça | Görev |
@@ -71,8 +71,8 @@ Bozulmaması gereken kurallar:
 
 
 ## 3. Marka ve tasarım kararları (kullanıcının onayladıkları)
-- **Logo (yeni, kullanıcının tasarımı, 15.11.2026; aslı `brand/nevarneyok-logo.png`):** iki satır "NE VAR / NE YOK", çok kalın düz yazı (Inter Display Black, %107 genişlik, sıkı aralık), beyaz. YOK'taki O **büyüteç**: kalın beyaz halka, beyaz yuvarlak uçlu sap (sağ alta, satırın biraz dışına taşar), içinde parlak **mor cam küre** (#d9ccff → #8b63ff → #5a2df0 → #2c0fa6, sol üstte iki parıltı). Soru işareti, nokta, pembe sap yok. Camın rengi sabit mor (zamana göre değişmez). Logo `brand/make-logo.py` ile üretilir: `brand/logo.svg` (tek parça) ve `brand/logo.js` (`NVLOGO(id)`: parça parça HTML; giriş ekranındaki halka/cam animasyonu için `.sr-ring` / `.sr-glass`). Logoyu elle çizme, bunları kullan. Uygulama simgeleri ve `og.png` bu logodan, logodaki mor gece zeminiyle üretilir.
-- **Tema rengi (15.11.2026):** koyu gece moru (#0c0820 / #0b0817), sol üstte mor ışıma (logonun zemini gibi). Vurgu mor (#8b63ff, #5a2df0); pembe vurgu kullanılmaz.
+- **Logo:** bölüm 0'daki son hali geçerlidir (düz mor cam, düz koyu zemin; uygulama simgesi yalnızca büyüteç). Yazı Inter Display Black %107, beyaz; YOK'taki O büyüteç (beyaz halka + beyaz sap). Logoyu elle çizme: `brand/logo.js` (`NVLOGO`), `brand/logo.svg`, `brand/mark.svg`.
+- **Tema rengi:** düz koyu #0a0a10, vurgu mor #8b5cf6; pembe ve ışıma yok.
 - **Dört tema:** Sabah, Gün, Gün batımı, Gece.
   - Otomatik mod güneşin Ankara'daki konumuna göre seçer (`themeSun`). Sabah ve Gün açık sayfa, Gün batımı ve Gece koyu sayfa.
   - Ayarlar panelinden elle seçilebilir (`nvny-tema`). Giriş ekranı, mercek ve sayfa her zaman aynı temada olmalı.
